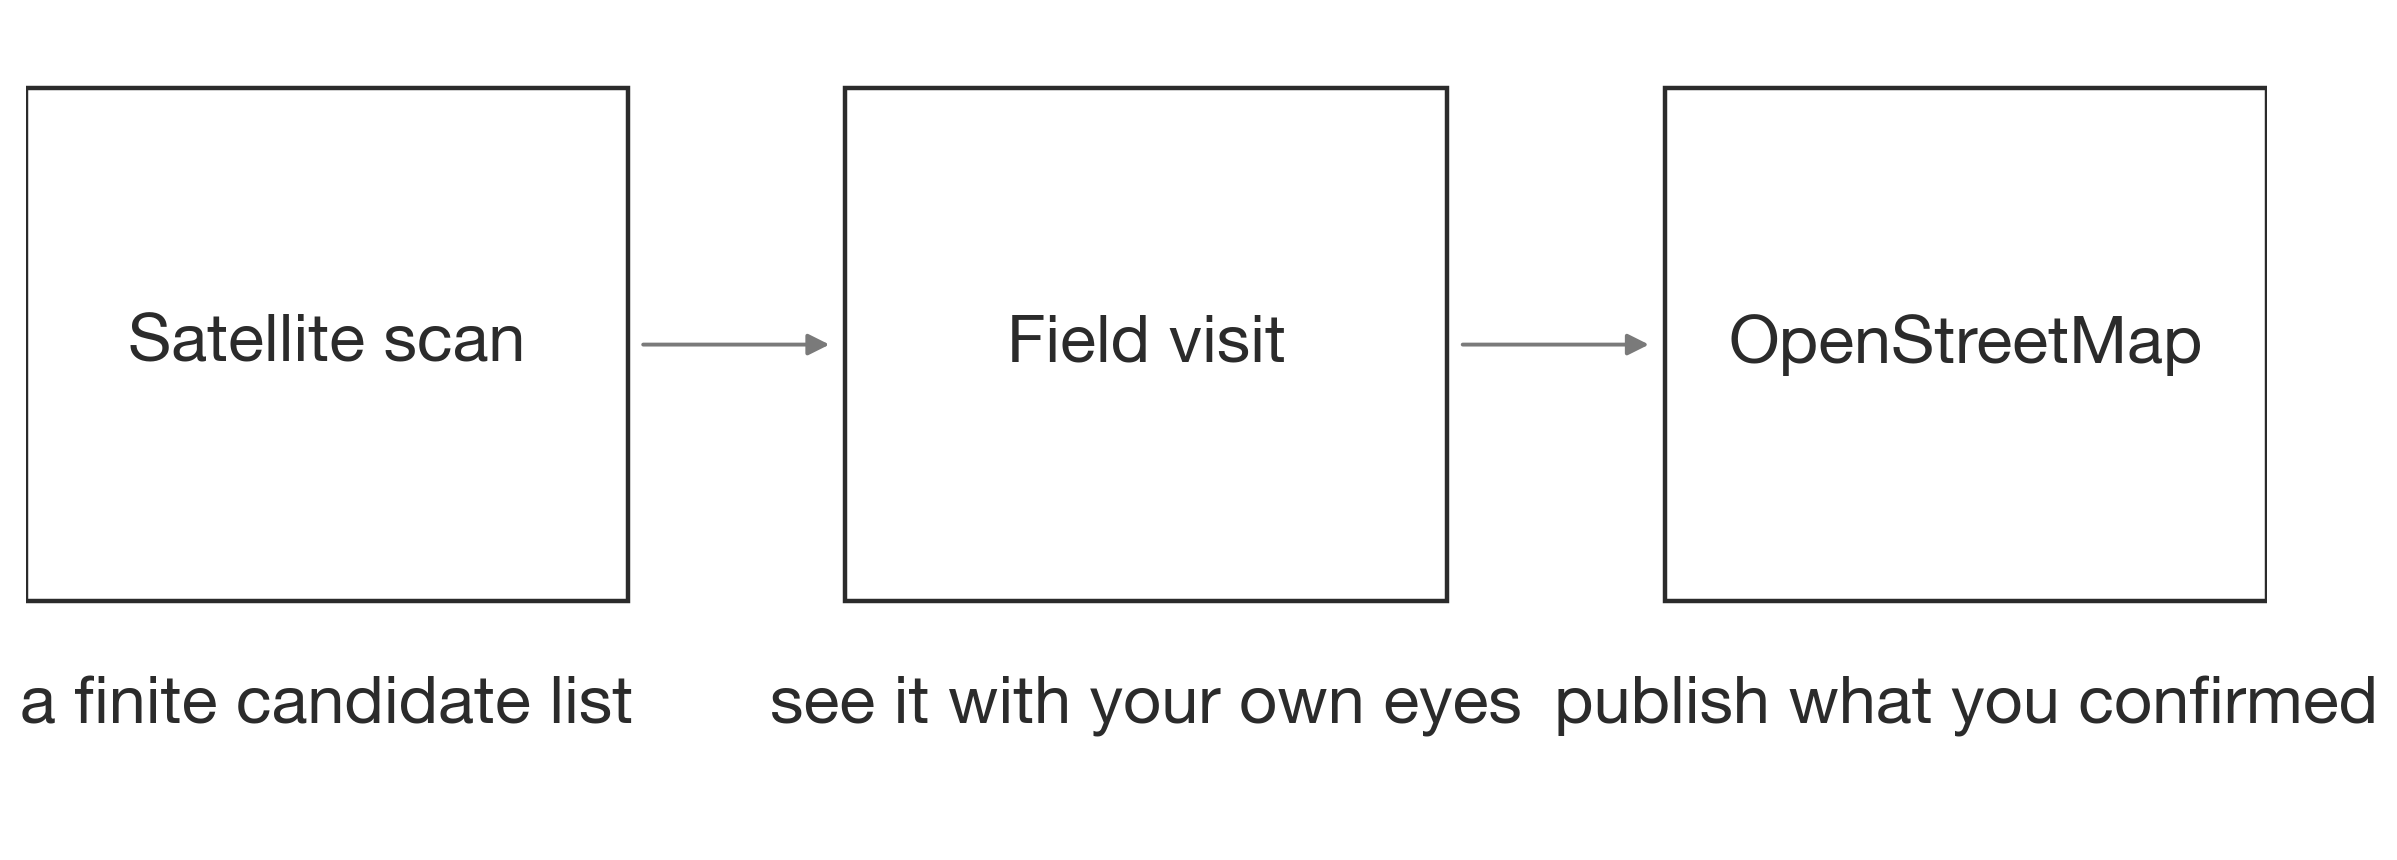
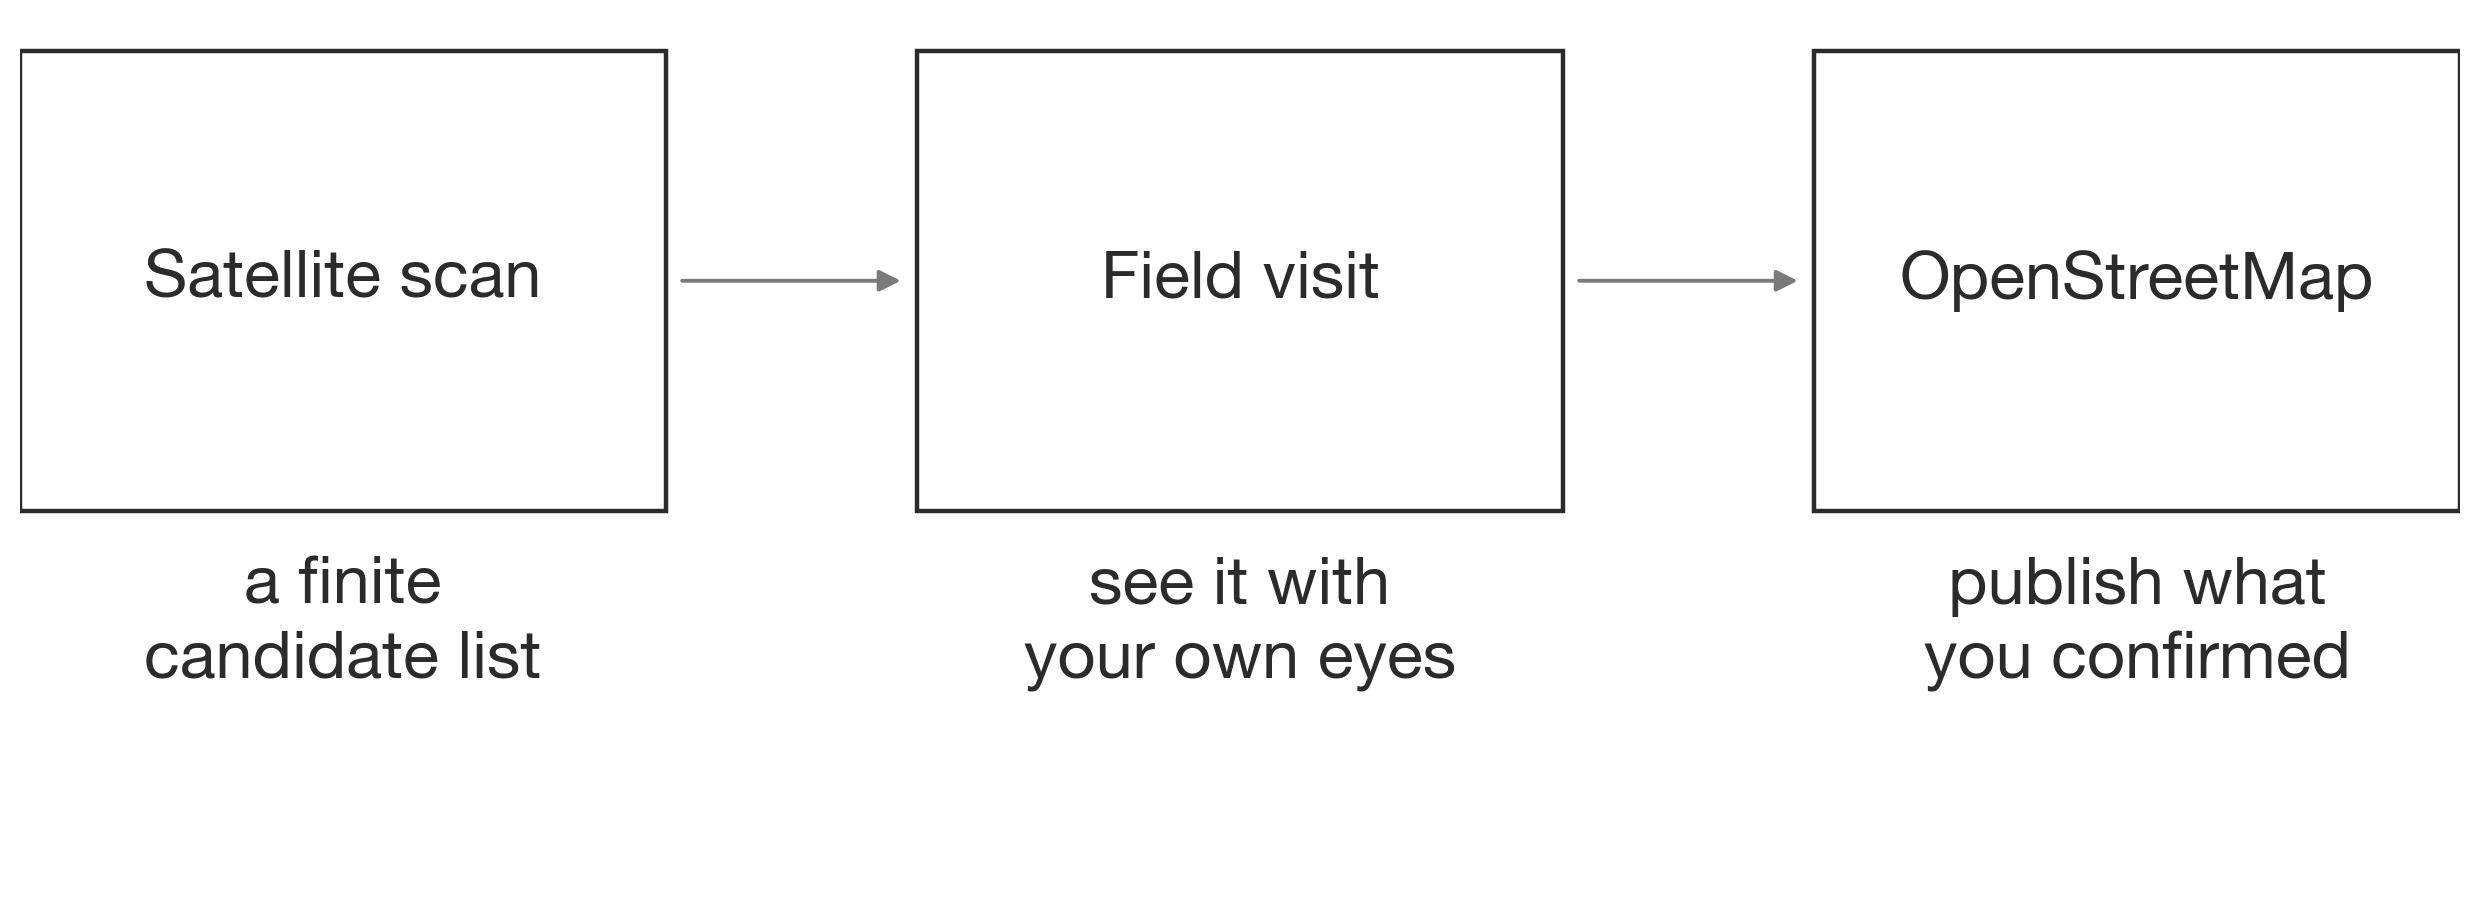
fix: P12キャプションの視認性回帰を解消（2行折り返し・間隔拡大・検査追加）
fix round 1でキャプションを24ptに拡大した際、ボックス間隔を詰めすぎたことで
2番目・3番目のキャプションが約39pxしか離れず1行に見える回帰が発生していた。
フォントは24ptのまま各キャプションを2行に折り返し、ボックス間隔とylimの余白を
拡張して解消。再発防止のため、キャプション幅が自ボックス幅の110%を超えないこと、
隣接キャプション間のギャップが60px以上であることをレンダラ実測値で検査する
アサーションを追加した。

diff --git a/docs/presentations/exp002_kitagi_foss4g2026_figures.py b/docs/presentations/exp002_kitagi_foss4g2026_figures.py
@@ -384,31 +384,35 @@ def make_p08_visit_anchors_map(features: list[dict]) -> None:
 
 # ---------------------------------------------------------------- P12: 3ステップフロー図
 def make_p12_loop_diagram() -> None:
-    # キャプションは24pt(P12の床は19pt native)でも1行に収まるよう短く記述する
-    # （Finding 2: フォントを縮めるのではなく文言を短くする方針に従う）。
+    # キャプションは24pt(P12の床は19pt native)。24pt・1行のままでは各キャプションの幅が
+    # 自ボックス幅を大きく超え、隣接キャプションと衝突して1行に見えてしまう回帰が
+    # fix round 1で発生したため、フォントは縮めず、各キャプションを2行に折り返して
+    # 自ボックスの幅に収める（Finding 2: フォントを縮めるのではなく表示方法を変える方針）。
     steps = [
-        ("Satellite scan", "a finite candidate list"),
-        ("Field visit", "see it with your own eyes"),
-        ("OpenStreetMap", "publish what you confirmed"),
+        ("Satellite scan", ("a finite", "candidate list")),
+        ("Field visit", ("see it with", "your own eyes")),
+        ("OpenStreetMap", ("publish what", "you confirmed")),
     ]
 
     title_fontsize = 24.0
     caption_fontsize = 24.0
 
     box_w, box_h = 3.6, 1.5
-    gap = 1.3
+    gap = 1.4  # キャプションの折り返しに加え、ボックス間隔にも余裕を持たせる
     n = len(steps)
     total_w = n * box_w + (n - 1) * gap
-    fig, ax = plt.subplots(figsize=(12.5, 4.4), dpi=SAVE_DPI)
+    fig, ax = plt.subplots(figsize=(12.5, 4.6), dpi=SAVE_DPI)
     ax.set_xlim(0, total_w)
-    ax.set_ylim(0.5, 2.9)  # 矩形とキャプションの実際の描画範囲に合わせ、余白を詰める
+    ax.set_ylim(0.1, 2.9)  # 2行キャプション分の縦の余白を確保
     ax.axis("off")
 
     font_elements: list[tuple[str, float]] = []
     centers = []
-    for i, (title, caption) in enumerate(steps):
+    box_spans_data: list[tuple[float, float]] = []
+    caption_texts = []
+    for i, (title, caption_lines) in enumerate(steps):
         x0 = i * (box_w + gap)
-        y0 = 1.2
+        y0 = 1.3
         rect = Rectangle(
             (x0, y0), box_w, box_h,
             facecolor="white", edgecolor=COL_TEXT, linewidth=1.6,
@@ -417,15 +421,18 @@ def make_p12_loop_diagram() -> None:
         ax.add_patch(rect)
         cx, cy = x0 + box_w / 2, y0 + box_h / 2
         centers.append((x0, x0 + box_w, cy))
+        box_spans_data.append((x0, x0 + box_w))
         ax.text(
             cx, cy, title, ha="center", va="center",
             fontsize=title_fontsize, weight="bold", color=COL_TEXT, zorder=6,
         )
         font_elements.append((f"box title ({title})", title_fontsize))
-        ax.text(
-            cx, y0 - 0.22, caption, ha="center", va="top",
-            fontsize=caption_fontsize, color=COL_TEXT, style="italic", zorder=6,
+        caption_text = ax.text(
+            cx, y0 - 0.15, "\n".join(caption_lines), ha="center", va="top",
+            fontsize=caption_fontsize, color=COL_TEXT, style="italic",
+            linespacing=1.3, zorder=6,
         )
+        caption_texts.append(caption_text)
         font_elements.append((f"caption ({title})", caption_fontsize))
 
     # 細い無彩色の矢印で3つの矩形を接続する
@@ -439,6 +446,31 @@ def make_p12_loop_diagram() -> None:
             color=arrow_color, linewidth=1.4, zorder=4,
         )
         ax.add_patch(arrow)
+
+    # キャプションが自ボックスの幅を大きく超えて隣接キャプションと衝突しないことを検査する
+    # （fix round 1で24pt化した際に発生した回帰の再発防止）。
+    # レンダラで実測した各キャプションの表示幅が、自ボックス幅の110%以内であることを確認する。
+    fig.canvas.draw()
+    renderer = fig.canvas.get_renderer()
+    caption_bboxes = [t.get_window_extent(renderer=renderer) for t in caption_texts]
+    caption_margin_frac = 0.10
+    for i, (bbox, (bx0, bx1)) in enumerate(zip(caption_bboxes, box_spans_data)):
+        box_disp0 = ax.transData.transform((bx0, 0.0))[0]
+        box_disp1 = ax.transData.transform((bx1, 0.0))[0]
+        box_width_px = box_disp1 - box_disp0
+        max_allowed_px = box_width_px * (1.0 + caption_margin_frac)
+        assert bbox.width <= max_allowed_px, (
+            f"P12: caption {i} の表示幅 {bbox.width:.1f}px が自ボックス幅 "
+            f"{box_width_px:.1f}px の110%（{max_allowed_px:.1f}px）を超えている"
+        )
+    min_caption_gap_px = min(
+        caption_bboxes[i + 1].x0 - caption_bboxes[i].x1 for i in range(len(caption_bboxes) - 1)
+    )
+    print(f"[P12] caption-to-caption gap (min): {min_caption_gap_px:.1f}px")
+    assert min_caption_gap_px >= 60.0, (
+        f"P12: キャプション同士の間隔が {min_caption_gap_px:.1f}px しかなく、"
+        "1本の文章に見えてしまう可能性がある（下限60px）"
+    )
 
     plt.tight_layout()
     out = OUT_DIR / "p12_loop_diagram.png"
